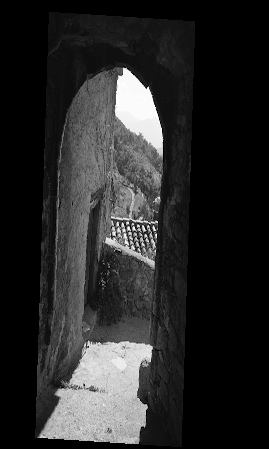
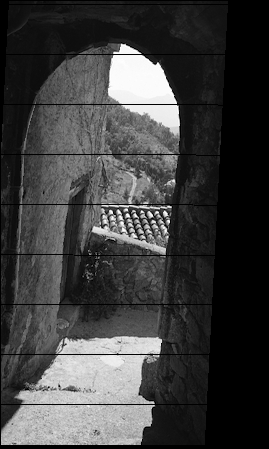
added affine transformation for color images

diff --git a/part2.py b/part2.py
@@ -157,7 +157,34 @@ def performAffineTrans(image1, image2):
 				newImage[newPoint[0]][newPoint[1]] = oldImage[i][j]
 	save_as_image(newImage, 'img/affineportal.png')
 
+def performAffineTransColor(image1, image2):
+	correspondance = imageGinput(image1, image2)
+	print correspondance
+	trn = Affine_Fit(correspondance[0], correspondance[1])
+	affineParamsX = trn.getParamsX()
+	affineParamsY = trn.getParamsY()
+	print trn.To_Str()
+	print affineParamsX
+	print affineParamsY
+	x1 = Image.open(image1)
+	x2 = Image.open(image2)
+	width1, height1 = x1.size
+	oldImage = np_from_image(image1)
+	matrixFiller = np.asarray([0, 0, 0, 255])
+	newImage = []
+	for i in range(0,height1):
+		imagevector = []
+		for j in range(0,width1):
+			imagevector.append(matrixFiller)
+		newImage.append(np.asarray(imagevector))
+	for i in range(0,height1-2):
+		for j in range(0,width1-2):
+			newPoint = (int(i * affineParamsX[0] + (j * affineParamsX[1]) + affineParamsX[2]), int(i * affineParamsY[0] + (j * affineParamsY[1]) + affineParamsY[2]))
+			if (((newPoint[0] > 0) and (newPoint[0] < height1-1)) and ((newPoint[1] > 0) and (newPoint[1] < width1-1))):
+				newImage[newPoint[0]][newPoint[1]] = oldImage[i][j] 
+	save_as_image(np.asarray(newImage), 'img/affine.png')
+
 	
 
 
-performAffineTrans('img/portal.png', 'img/portal.png')
+performAffineTransColor('img/im43.png', 'img/im44.png')
